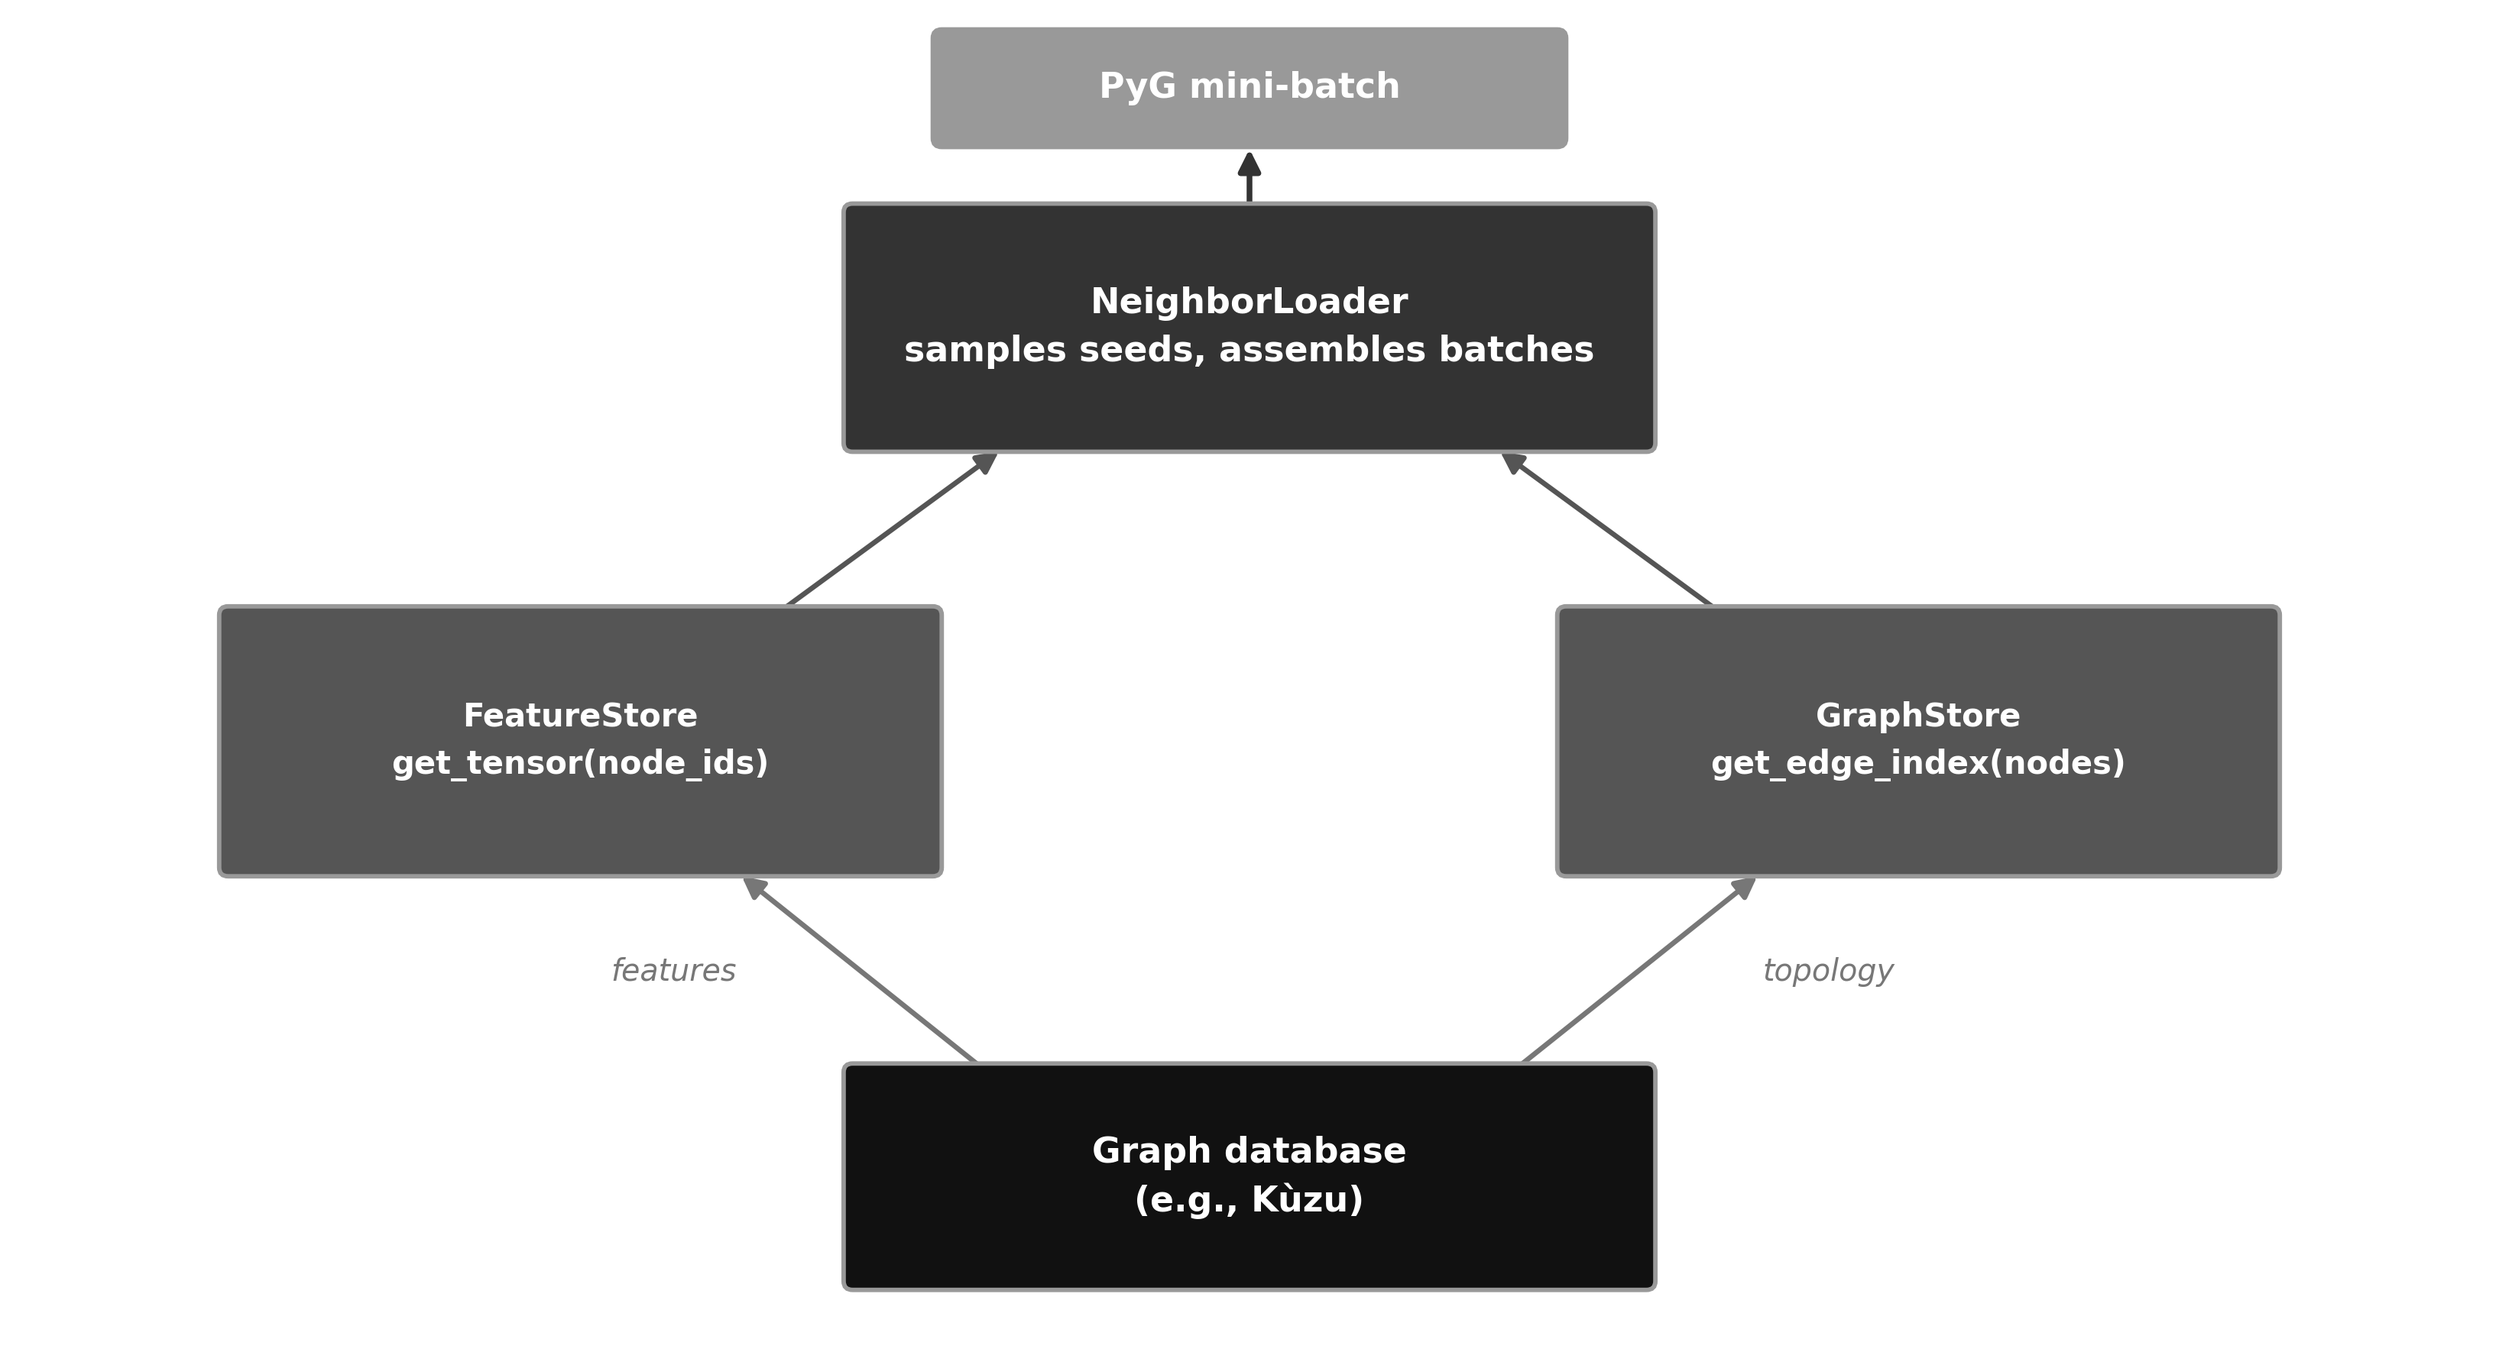
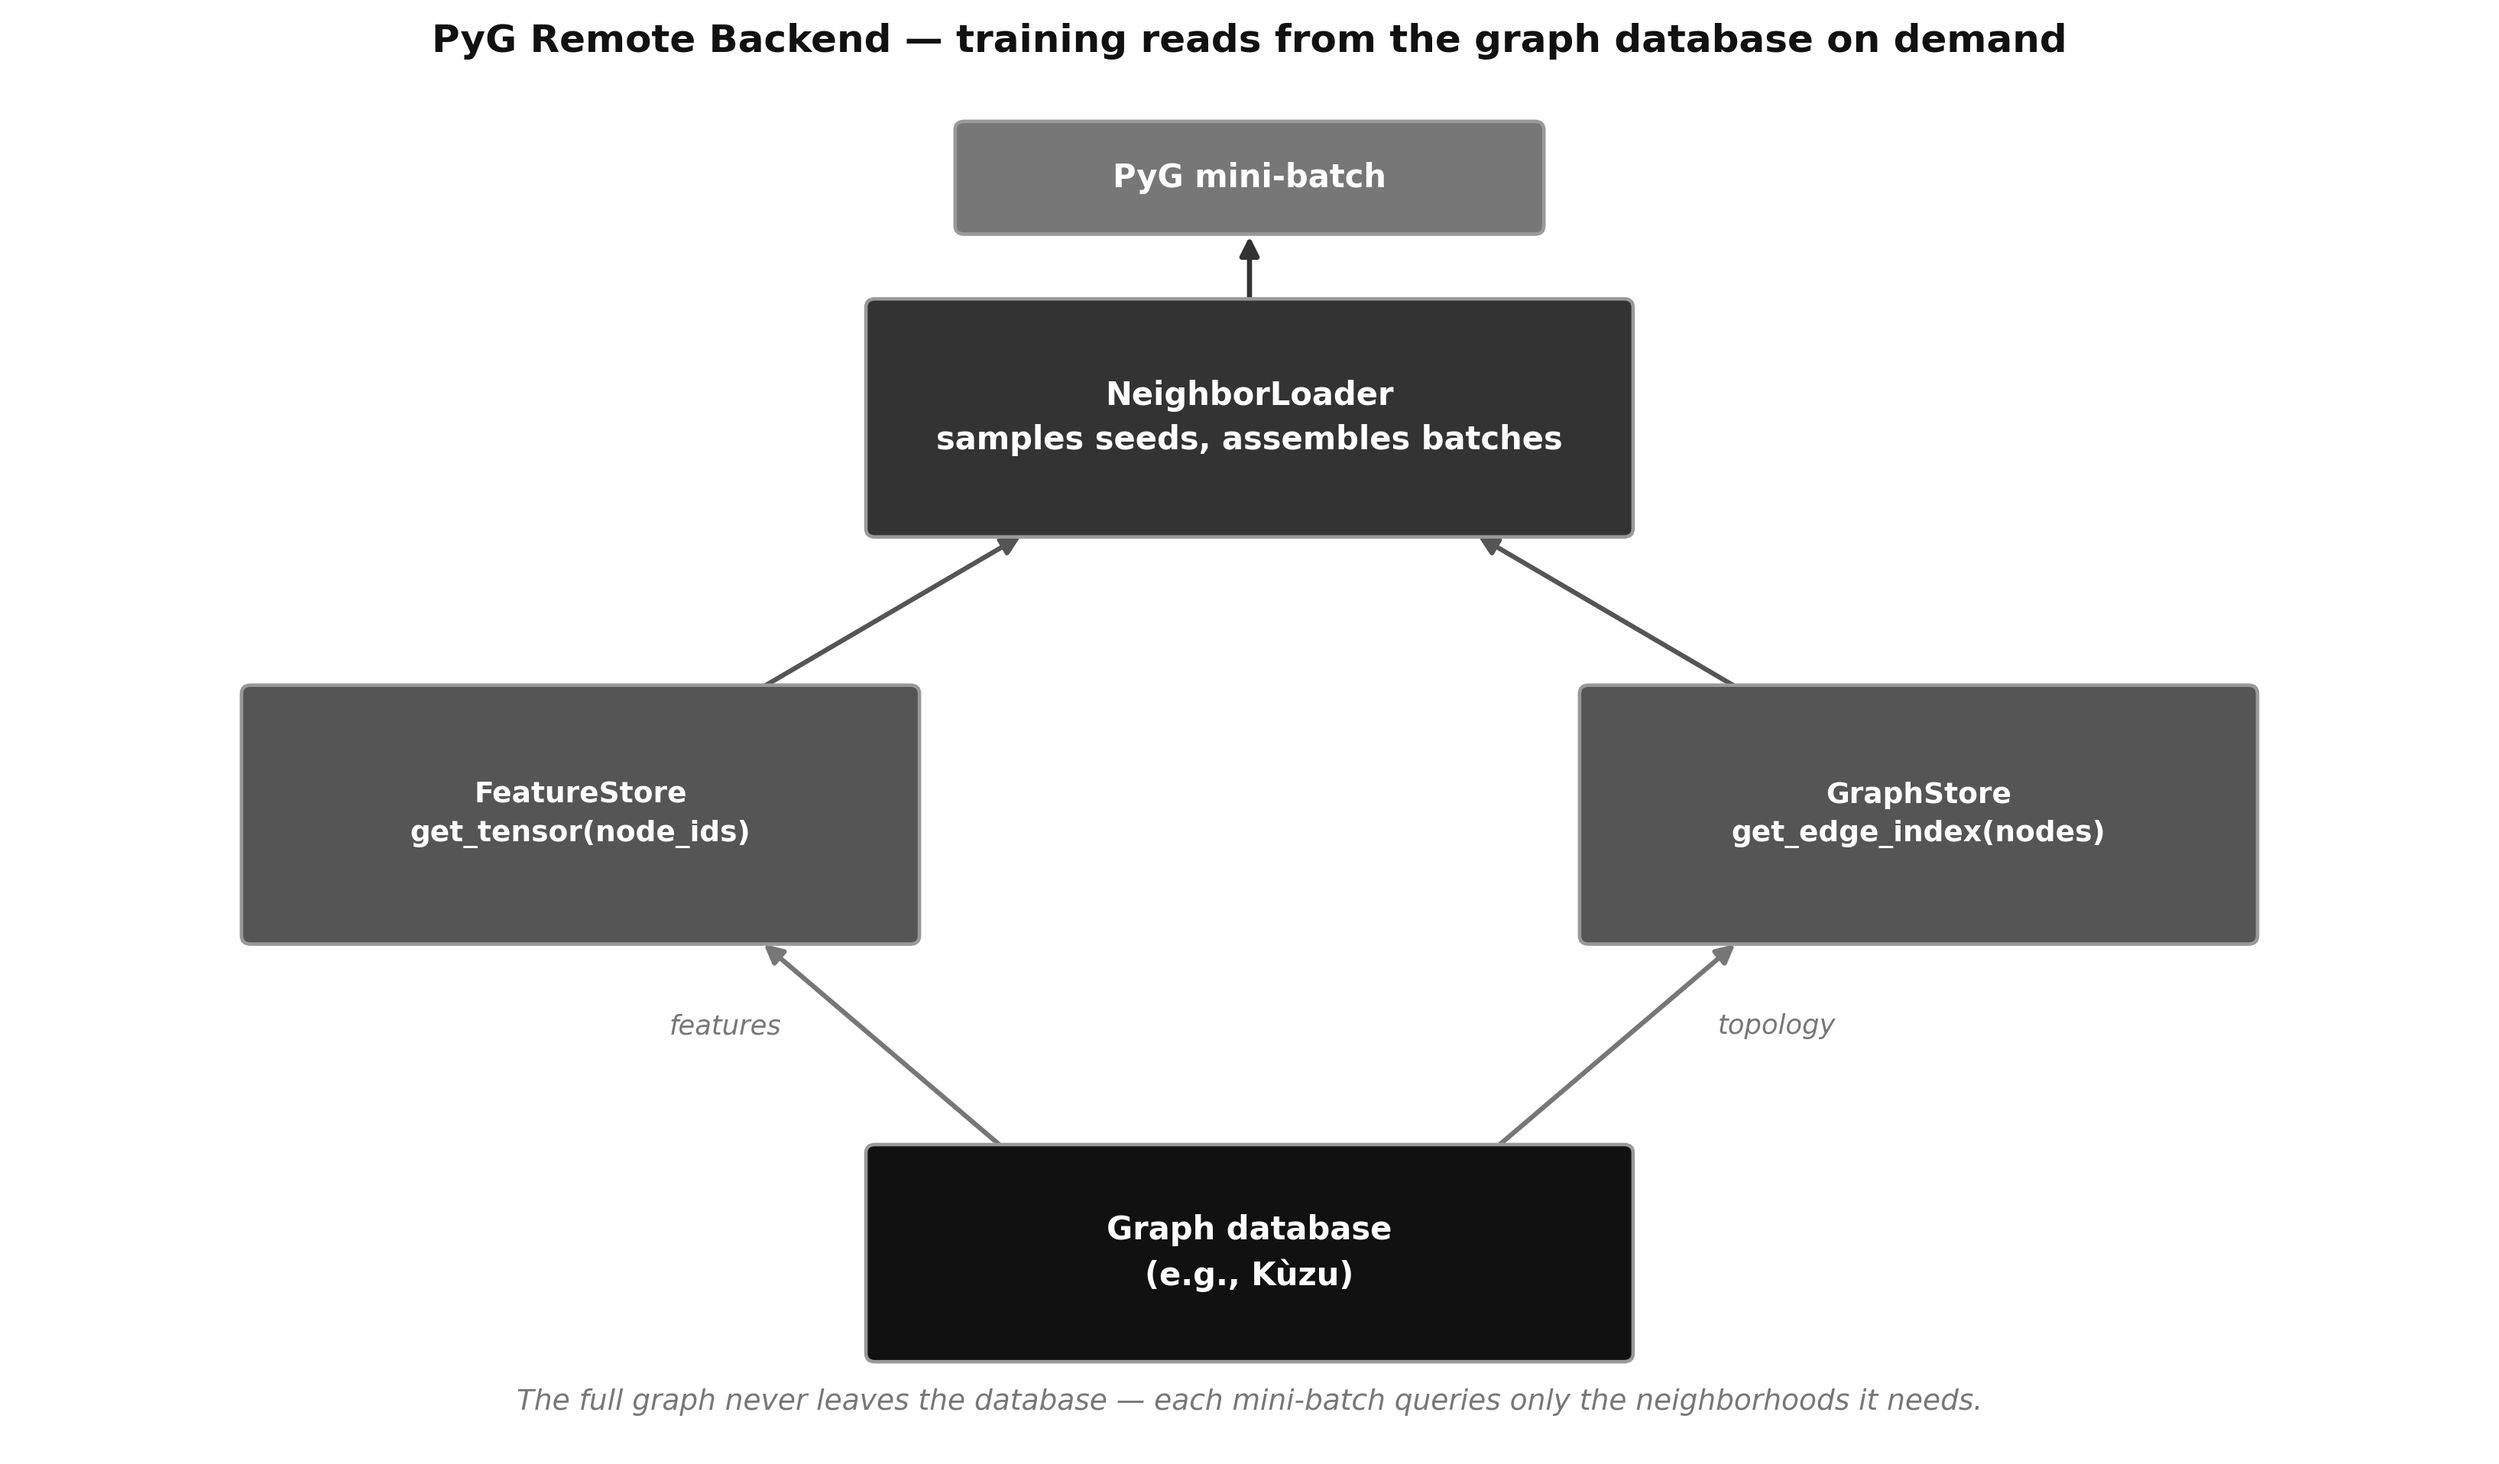
Fix figure scripts: output paths, dataset root, dpi and line spacing
- Chapter02: save next to the script instead of the current directory, so
  the figure lands in figures/ rather than the chapter root.
- Chapter09: rbox drew each label line at a fixed 0.11 offset, about 8pt,
  which overlapped a 10pt font in figure 9.2. Draw the label as one block
  and let matplotlib space the lines. Also restore dpi=300 for figure 9.2,
  which the committed file had been generated with.
- Chapter11: read PROTEINS from the chapter directory instead of /tmp. The
  upstream URL now returns 404, so the script could not run at all.
- Chapter16: restore dpi=300 for figure 16.1; reproduces the committed file
  exactly.
- tools/run_all.py: run every chapter's run.py or figure script from its own
  directory and report status, duration and errors.

Verified by regenerating every figure and comparing with the committed files
pixel by pixel: 37 identical, 12 differing only by antialiasing, 2 stochastic
(Chapter03 t-SNE, Chapter11 protein sample) which still need a fixed seed.

diff --git a/tools/run_all.py b/tools/run_all.py
@@ -1,0 +1,117 @@
+#!/usr/bin/env python3
+"""Run every chapter's run.py (and optionally its figure script) and report.
+
+Each script is executed from inside its own chapter directory, which is the
+convention used throughout the book. Output is written to a log file per
+chapter; the console shows one line per chapter with status and duration.
+
+    python tools/run_all.py                    # all chapters, 20 min each
+    python tools/run_all.py --timeout 120      # quick smoke test
+    python tools/run_all.py --only 07 11 16    # selected chapters
+    python tools/run_all.py --figures          # figure scripts instead
+"""
+
+import argparse
+import os
+import subprocess
+import sys
+import time
+from pathlib import Path
+
+ROOT = Path(__file__).resolve().parent.parent
+PYTHON = str(ROOT / ".venv" / "bin" / "python")
+LOG_DIR = ROOT / "logs"
+
+# Chapters needing a service or a large download; skipped unless asked for.
+NEEDS_SERVICE = {"09": "Neo4j via docker-compose", "19": "large LLM download"}
+
+
+def chapters(only):
+    out = []
+    for d in sorted(ROOT.glob("Chapter[0-9][0-9]")):
+        num = d.name[-2:]
+        if only and num not in only:
+            continue
+        out.append((num, d))
+    return out
+
+
+def script_for(chapter_dir, figures):
+    if figures:
+        for cand in ("figures/generate_figures.py", "generate_figures.py"):
+            if (chapter_dir / cand).exists():
+                return cand
+        return None
+    return "run.py" if (chapter_dir / "run.py").exists() else None
+
+
+def run_one(num, chapter_dir, script, timeout):
+    log_path = LOG_DIR / f"chapter{num}{'_figures' if 'generate' in script else ''}.log"
+    started = time.time()
+    with open(log_path, "w") as log:
+        try:
+            proc = subprocess.run(
+                [PYTHON, script],
+                cwd=chapter_dir,
+                stdout=log,
+                stderr=subprocess.STDOUT,
+                timeout=timeout,
+                env={**os.environ, "MPLBACKEND": "Agg", "PYTHONUNBUFFERED": "1"},
+            )
+            status = "OK" if proc.returncode == 0 else f"FAIL rc={proc.returncode}"
+        except subprocess.TimeoutExpired:
+            status = f"TIMEOUT >{timeout}s"
+    return status, time.time() - started, log_path
+
+
+def tail_error(log_path, lines=3):
+    try:
+        text = log_path.read_text(errors="ignore").rstrip().splitlines()
+    except OSError:
+        return ""
+    return " | ".join(l.strip() for l in text[-lines:] if l.strip())
+
+
+def main():
+    ap = argparse.ArgumentParser()
+    ap.add_argument("--timeout", type=int, default=1200)
+    ap.add_argument("--only", nargs="*", default=None)
+    ap.add_argument("--figures", action="store_true")
+    ap.add_argument("--include-services", action="store_true",
+                    help="also run chapters needing Neo4j or large downloads")
+    args = ap.parse_args()
+
+    LOG_DIR.mkdir(exist_ok=True)
+    results = []
+    for num, d in chapters(args.only):
+        script = script_for(d, args.figures)
+        if script is None:
+            results.append((num, "SKIP no script", 0.0, ""))
+            print(f"Chapter{num}  SKIP   (nessuno script)", flush=True)
+            continue
+        if num in NEEDS_SERVICE and not args.include_services and not args.only:
+            results.append((num, f"SKIP {NEEDS_SERVICE[num]}", 0.0, ""))
+            print(f"Chapter{num}  SKIP   ({NEEDS_SERVICE[num]})", flush=True)
+            continue
+
+        print(f"Chapter{num}  ...    {script}", end="", flush=True)
+        status, secs, log_path = run_one(num, d, script, args.timeout)
+        detail = tail_error(log_path) if status != "OK" else ""
+        results.append((num, status, secs, detail))
+        print(f"\rChapter{num}  {status:<14} {secs:6.1f}s  {script}", flush=True)
+        if detail:
+            print(f"            {detail[:160]}", flush=True)
+
+    print("\n=== RIEPILOGO ===")
+    width = max(len(s) for _, s, _, _ in results) if results else 4
+    for num, status, secs, _ in results:
+        print(f"Chapter{num}  {status:<{width}}  {secs:7.1f}s")
+    failed = [n for n, s, _, _ in results if s.startswith(("FAIL", "TIMEOUT"))]
+    print(f"\n{len(results)} capitoli, {len(failed)} con problemi"
+          + (f": {', '.join(failed)}" if failed else ""))
+    print(f"Log in {LOG_DIR}")
+    return 1 if failed else 0
+
+
+if __name__ == "__main__":
+    sys.exit(main())

diff --git a/Chapter09/figures/generate_figures.py b/Chapter09/figures/generate_figures.py
@@ -29,11 +29,11 @@ def rbox(ax, x, y, w, h, label, fill=G2, fc='white', fs=9, r=0.04):
                           facecolor=fill, edgecolor=G4,
                           linewidth=1.1, zorder=3)
     ax.add_patch(rect)
-    for li, line in enumerate(label.split('\n')):
-        offset = 0.11*(li - label.count('\n')/2)
-        ax.text(x, y-offset, line, ha='center', va='center',
-                fontsize=fs, color=fc, fontweight='bold',
-                fontfamily=FONT, zorder=4)
+    # Draw the label as one block so matplotlib spaces the lines according to
+    # the font size; a fixed offset per line overlaps at larger font sizes.
+    ax.text(x, y, label, ha='center', va='center', linespacing=1.5,
+            fontsize=fs, color=fc, fontweight='bold',
+            fontfamily=FONT, zorder=4)
 
 def arr(ax, x1, y1, x2, y2, color=G2, lw=1.4):
     ax.annotate("", xy=(x2,y2), xytext=(x1,y1),
@@ -117,6 +117,6 @@ ax.text(5.5, 0.15, "The full graph never leaves the database — "
 ax.set_title("PyG Remote Backend — training reads from the graph database on demand",
              fontsize=12, fontweight='bold', color=G0, fontfamily=FONT, pad=10)
 fig.tight_layout()
-save(fig, "fig09_2_remote_backend.png")
+save(fig, "fig09_2_remote_backend.png", dpi=300)
 
 print(f"\nAll figures saved to {OUT}")

diff --git a/Chapter02/figures/generate_figures.py b/Chapter02/figures/generate_figures.py
@@ -1,3 +1,4 @@
+import os
 import matplotlib
 matplotlib.use('Agg')
 import matplotlib.pyplot as plt
@@ -35,5 +36,6 @@ draw(Rg, R_edges)
 ax.plot([5.8,5.8], [0.3,4.7], color='#cfd8e3', lw=1.0, zorder=0)
 
 plt.subplots_adjust(left=0, right=1, top=1, bottom=0)
-plt.savefig('figure_connected_vs_disconnected.png',
+plt.savefig(os.path.join(os.path.dirname(os.path.abspath(__file__)),
+                         'figure_connected_vs_disconnected.png'),
             dpi=300, bbox_inches='tight', pad_inches=0.1, facecolor='white')

diff --git a/Chapter11/figures/generate_figures.py b/Chapter11/figures/generate_figures.py
@@ -323,7 +323,8 @@ from torch.nn import Linear, Sequential, BatchNorm1d, ReLU
 from torch_geometric.utils import to_networkx
 
 # Load PROTEINS without Constant transform — use native 3-dim features
-dataset = TUDataset(root='/tmp/PROTEINS', name='PROTEINS').shuffle()
+dataset = TUDataset(root=os.path.dirname(os.path.dirname(os.path.abspath(__file__))),
+                    name='PROTEINS').shuffle()
 
 torch.manual_seed(0)
 

diff --git a/Chapter16/figures/generate_figures.py b/Chapter16/figures/generate_figures.py
@@ -132,7 +132,7 @@ ax.legend(
     handler_map={tuple: HandlerTuple(ndivide=1)},
     loc='lower right', fontsize=9, framealpha=0.95, edgecolor=G5)
 fig.tight_layout()
-save(fig, "fig16_1_sensor_network.png")
+save(fig, "fig16_1_sensor_network.png", dpi=300)
 
 
 # ── Fig 15.2: Traffic speed per station ──────────────────────────────────────
